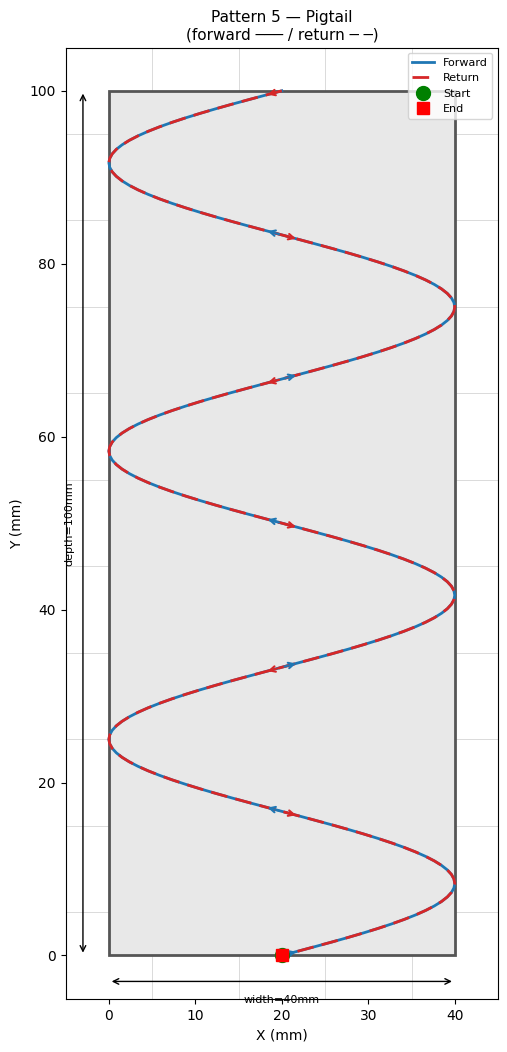
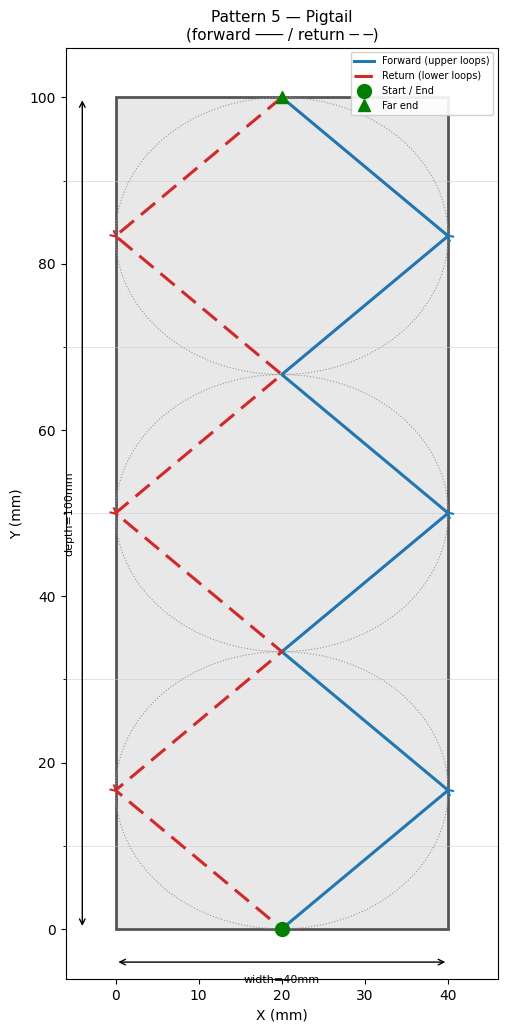
Fix pigtail pattern: use half-ellipse loops instead of sine wave
Agent-Logs-Url: https://github.com/porrey/Klipper-Macros/sessions/618eb164-bd71-46fb-a16a-fbcf60eb7065

diff --git a/Nozzle-Clean/nozzle-clean.md b/Nozzle-Clean/nozzle-clean.md
@@ -208,7 +208,7 @@ This macro stores behavior settings and defaults as variables. It does **not** e
 | Wave | `2` | Wipes in a sinusoidal wave pattern along the long axis of the pad |
 | Spiral Inward | `3` | Traces concentric rectangles starting from the pad edge, stepping inward each loop until the center is reached |
 | Criss-Cross | `4` | Traces two diagonals across the pad forming an X shape, crossing the long side on each arm |
-| Pigtail | `5` | Makes circular loops that progress along the long axis; the return trip uses phase-shifted circles to cover areas missed on the forward pass |
+| Pigtail | `5` | Traces elliptical loops that progress along the long axis; the forward pass covers the upper half of each loop and the return covers the lower half so the full pad is wiped |
 
 ### Pattern Diagrams
 
@@ -382,10 +382,14 @@ For **Pattern 4 (Criss-Cross)**:
 
 For **Pattern 5 (Pigtail)**:
 - The nozzle starts at the center of the short edge at the beginning of the long axis.
-- It traces `variable_circle_count` circular loops while progressing along the full length of the pad (forward half of the pass).
-- On the return, it traces another `variable_circle_count` circles going back to the start, with each circle phase-shifted by 180° relative to the forward circles.  This interleaves the return loops with the forward loops so the two halves cover complementary areas of the pad.
+- The pad is divided into `variable_circle_count` equal slots along the long axis; each slot contains one elliptical loop.
+  - Long semi-axis of each loop = `travel_len / (2 × circle_count)` — loops fit end-to-end with no gaps.
+  - Short semi-axis = half the pad's short dimension — loops fill the full pad width.
+- **Forward pass**: traces the upper half of every loop left → right, progressing from the start of the pad to the far end.
+- **Return pass**: traces the lower half of every loop right → left, travelling back to the start.
+- The forward and return halves are complementary — together they trace complete loops and cover the entire pad surface.
 - One pass = the complete forward journey plus the return.
-- `variable_circle_count` (in `_WIPE_PATTERN_PARAMETERS_5`) controls how many circles are made in each direction; `variable_segments_per_circle` controls how smoothly each circle is approximated.
+- `variable_circle_count` (in `_WIPE_PATTERN_PARAMETERS_5`) controls how many loops are made; `variable_segments_per_circle` controls the smoothness of each half-loop.
 
 ---
 
@@ -506,8 +510,8 @@ gcode:
 ## Changelog
 
 - **v1.4.0** (Last Updated: 2026-04-04)
-  - Added Pattern 5 (Pigtail): circular loops that progress along the long axis; the return trip uses 180°-phase-shifted circles to cover complementary pad areas (`Patterns/pattern5.cfg`).
-  - Added `variable_circle_count` and `variable_segments_per_circle` to `_WIPE_PATTERN_PARAMETERS_5` to control the number of circles and smoothness.
+  - Added Pattern 5 (Pigtail): elliptical loops that progress along the long axis; the forward pass traces the upper half of each loop and the return traces the lower half, covering the full pad without retracing (`Patterns/pattern5.cfg`).
+  - Added `variable_circle_count` and `variable_segments_per_circle` to `_WIPE_PATTERN_PARAMETERS_5`.
   - Added `Images/pattern5.png` diagram.
 
 - **v1.3.0** (Last Updated: 2026-04-04)
